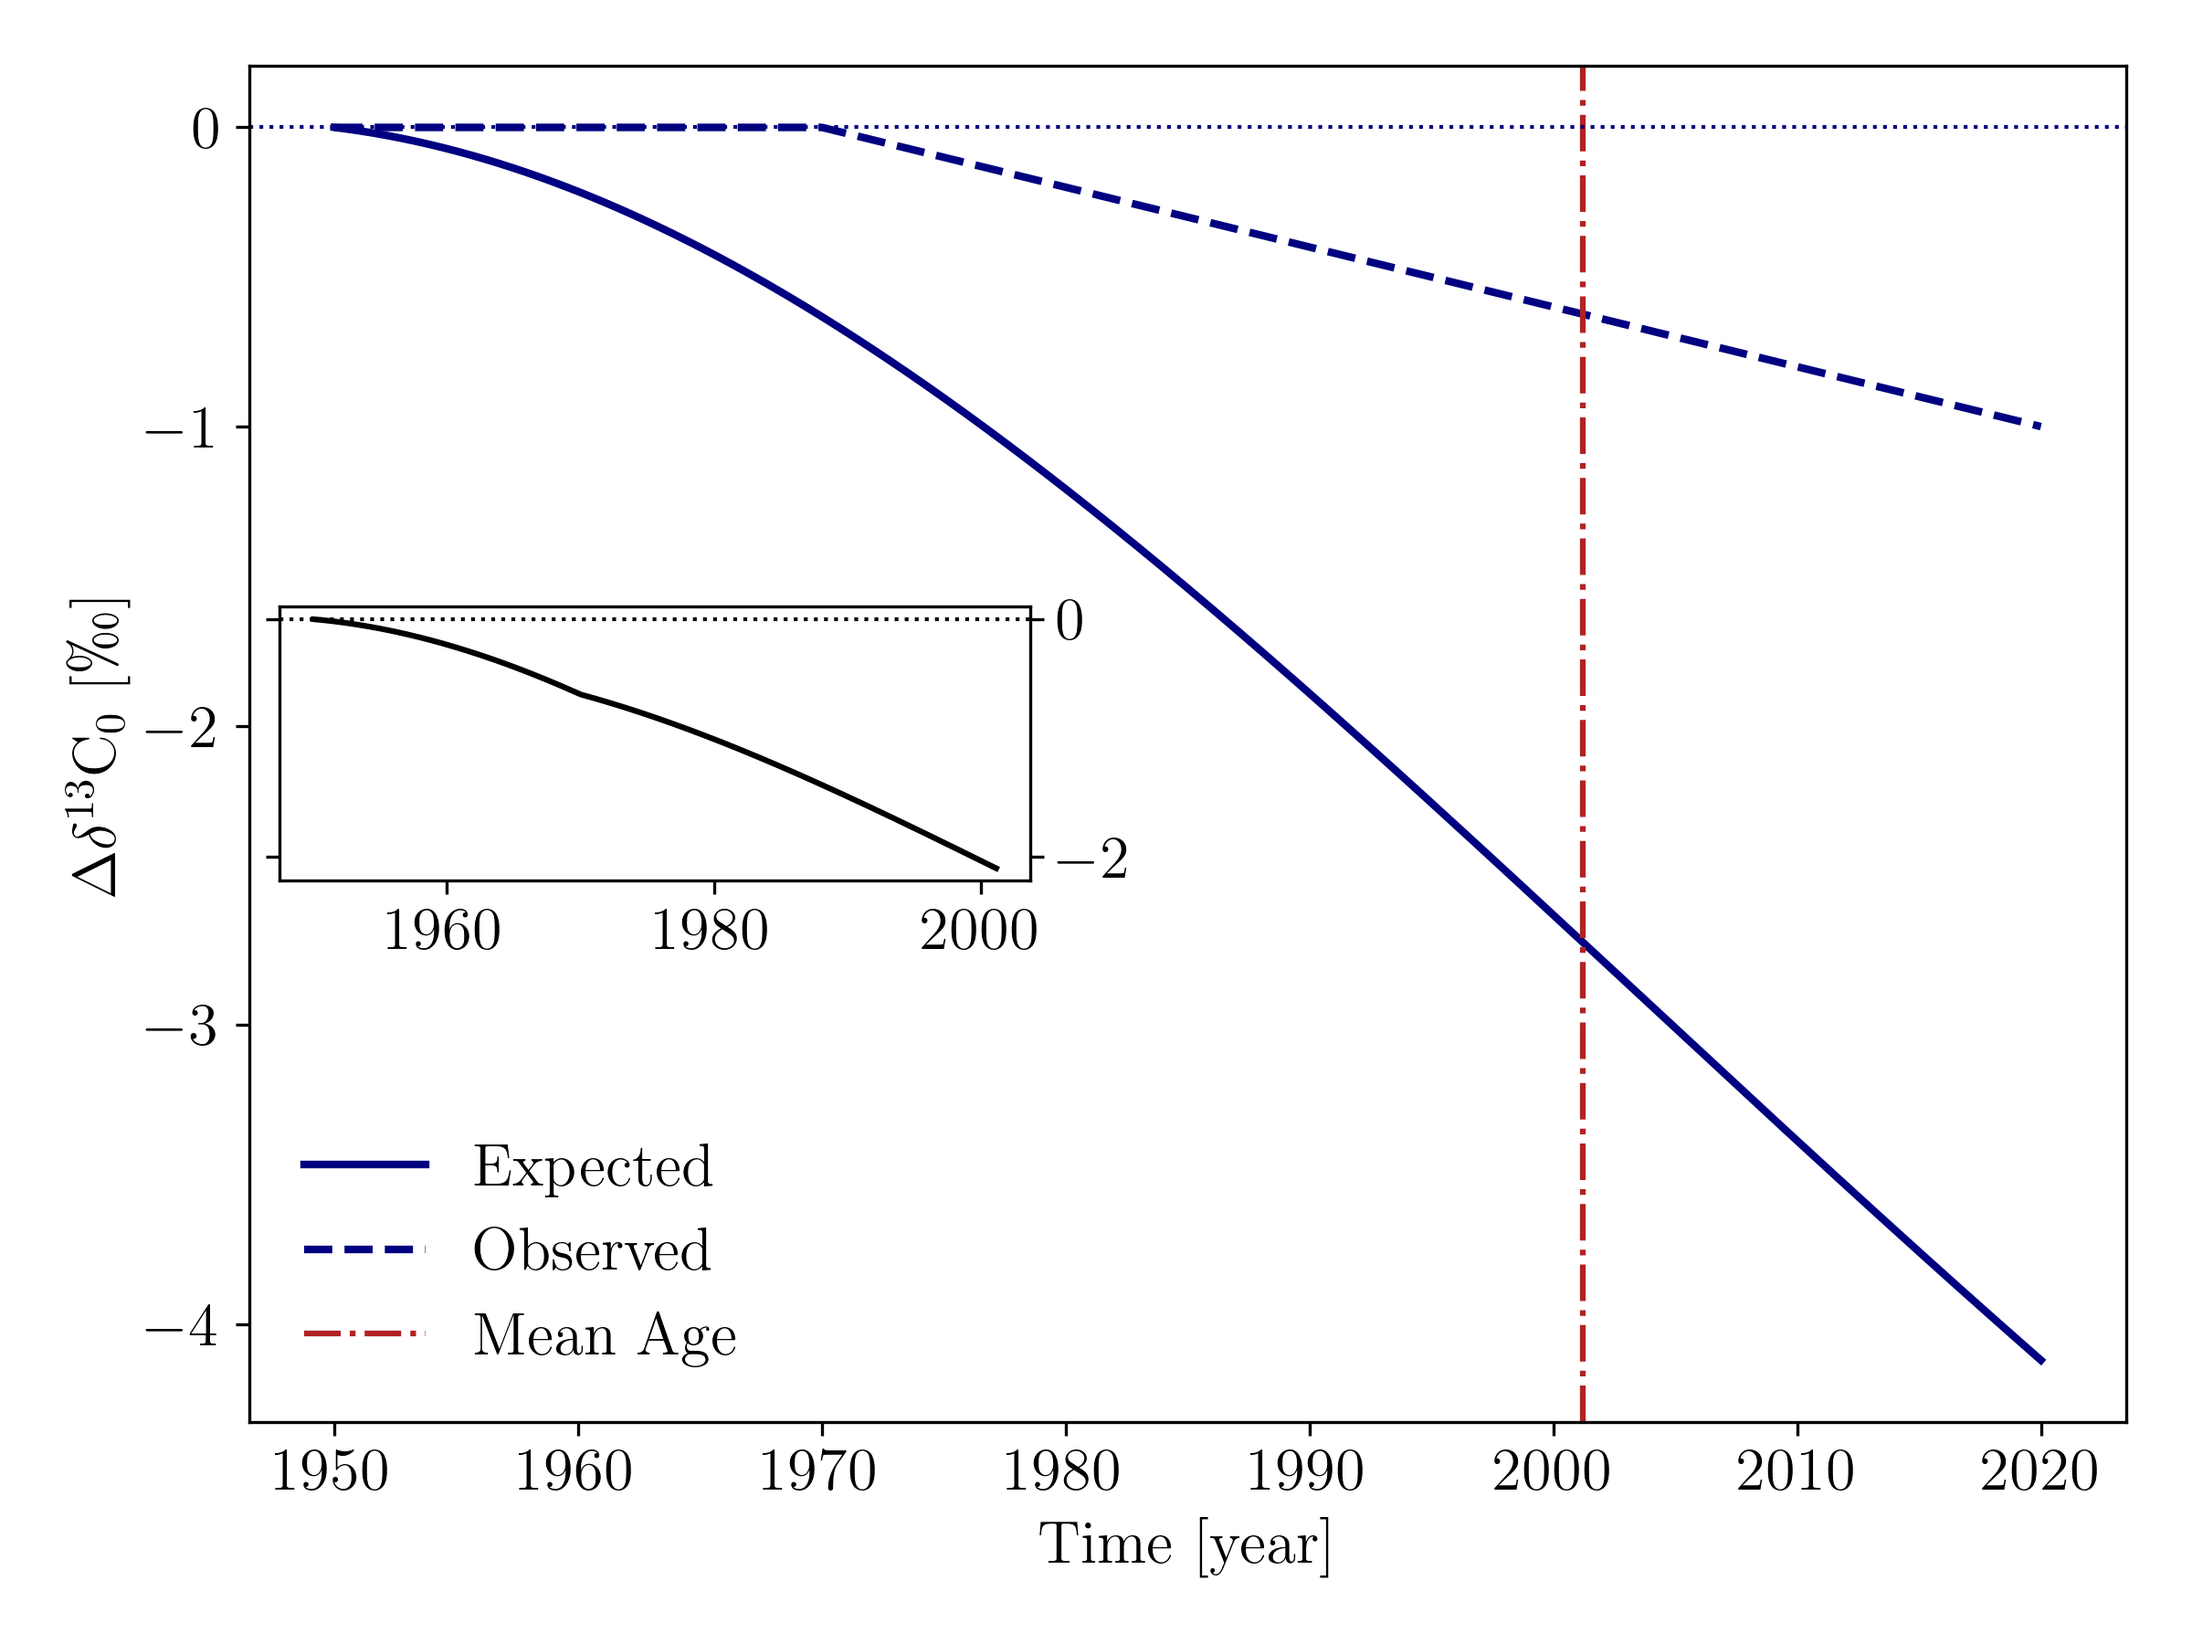
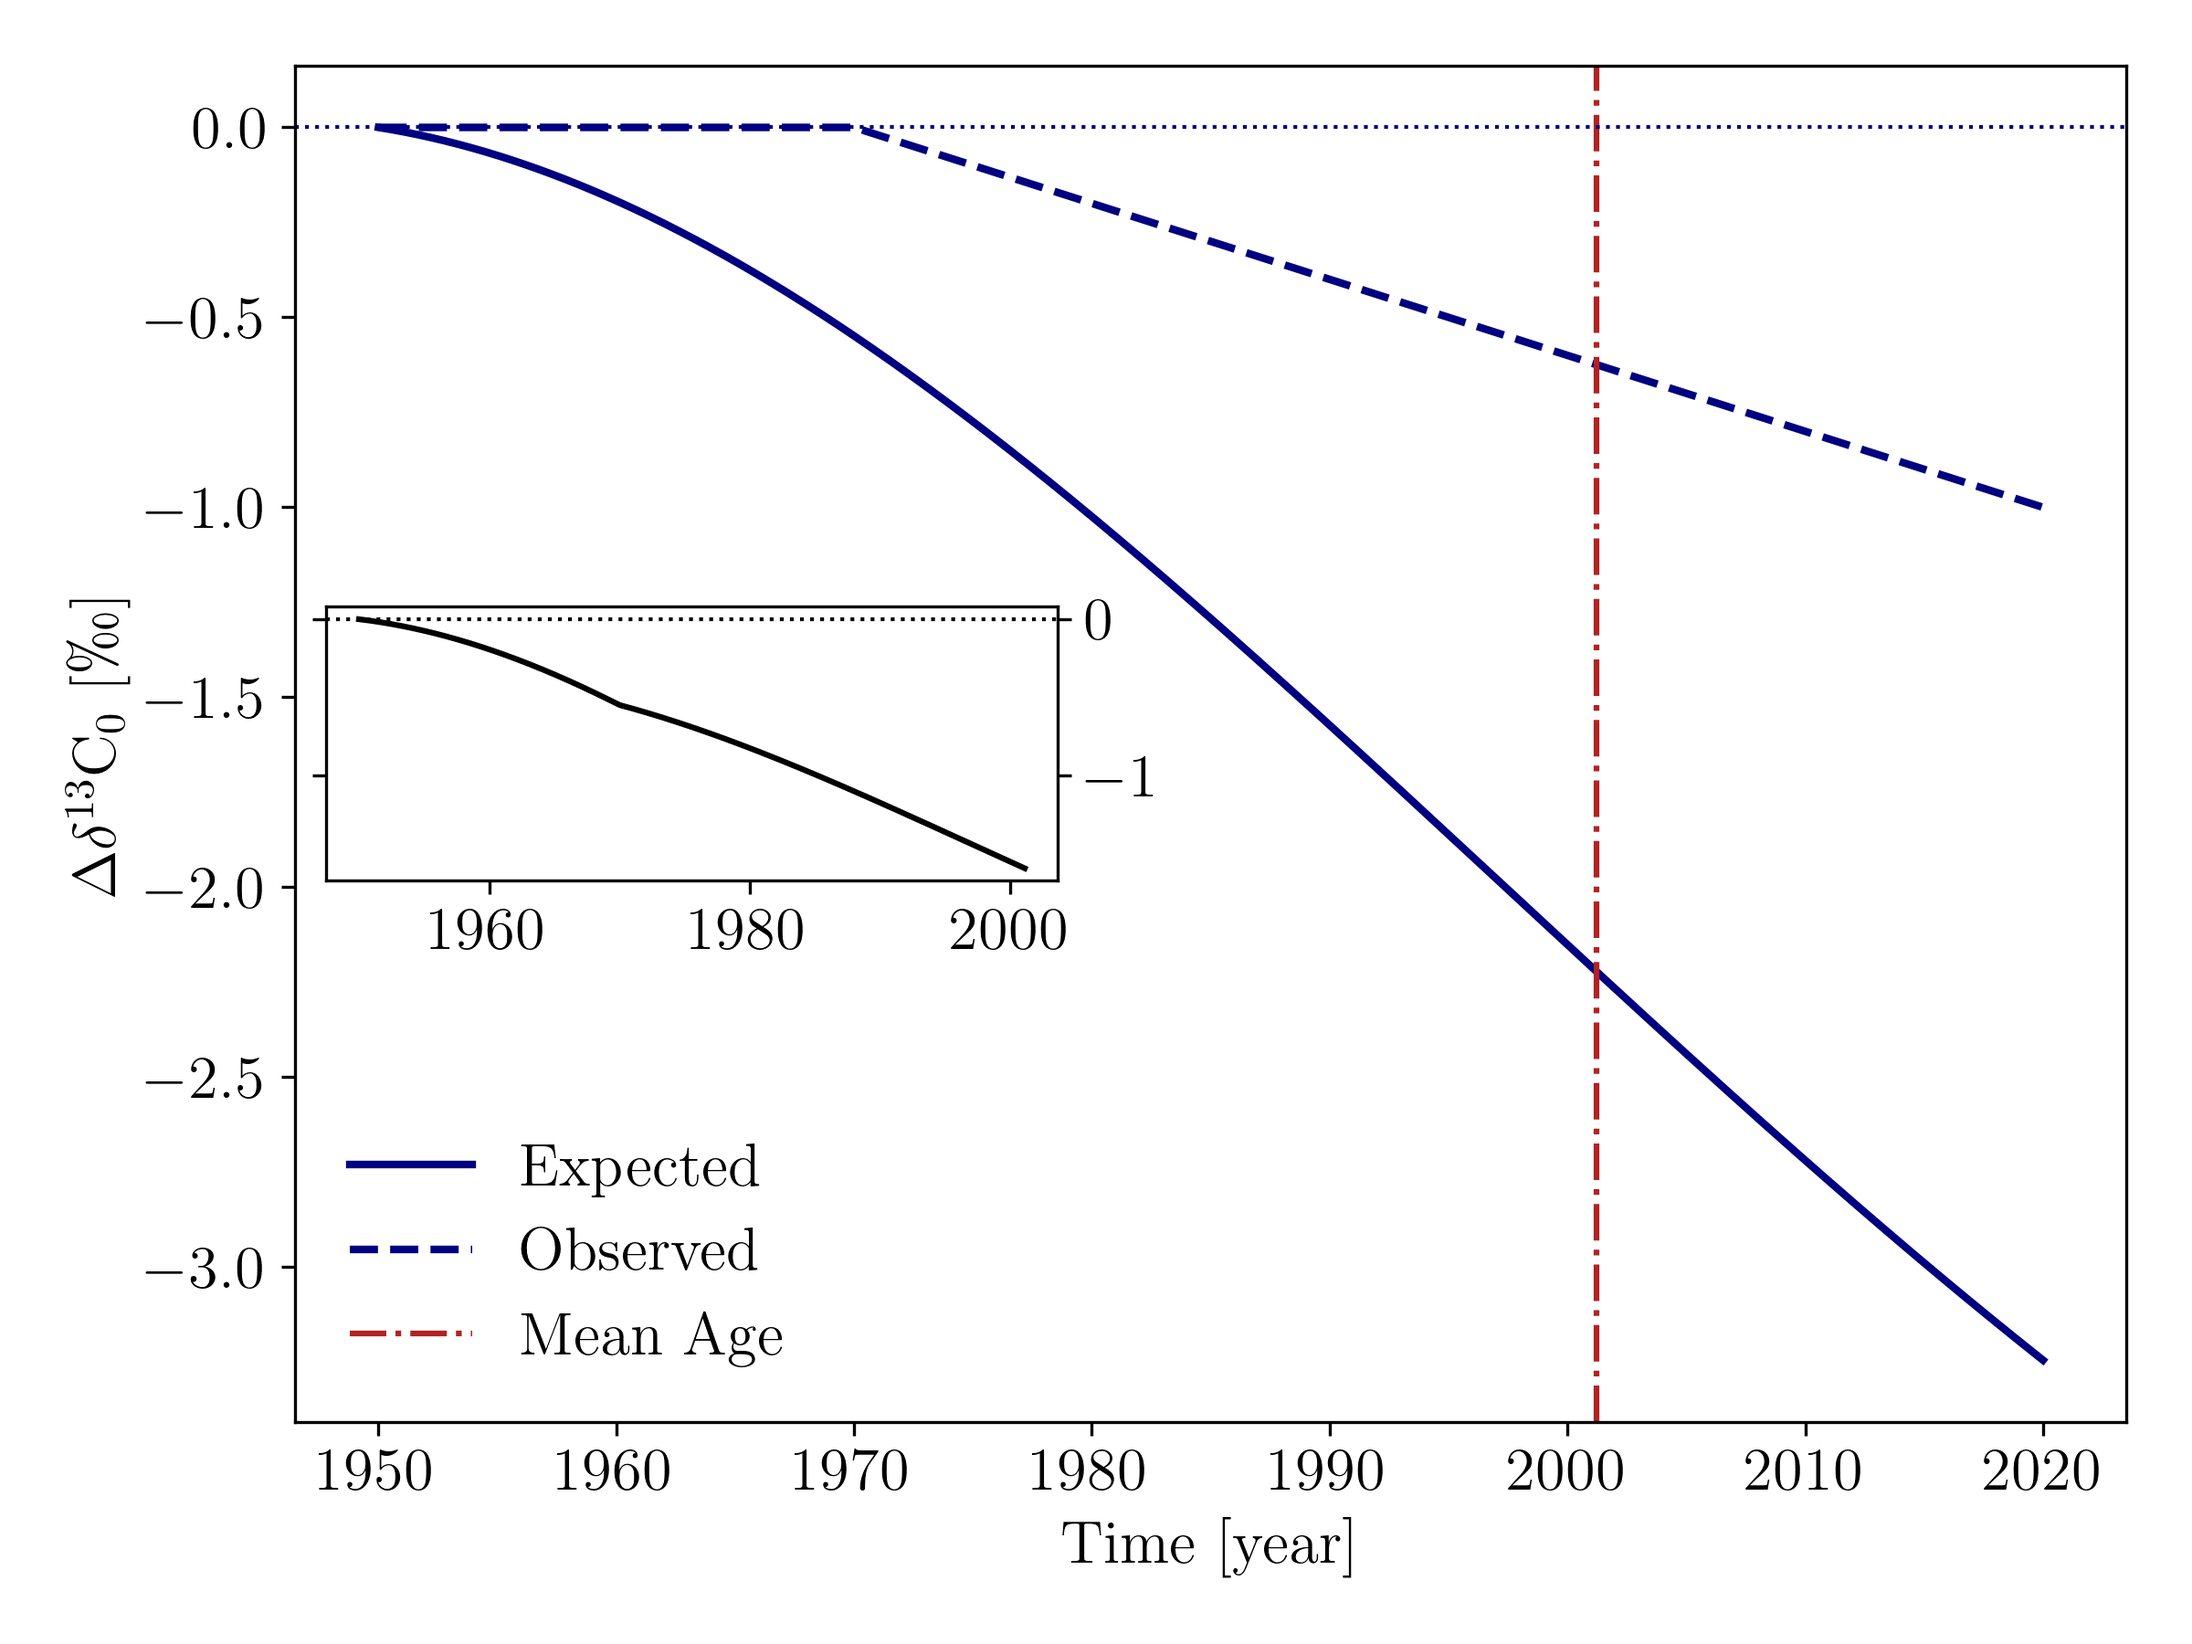
adding in submitted 12744 ps3

diff --git a/blog/course_notes/courses/12744/problem_sets/ps3/12744_ps3.html b/blog/course_notes/courses/12744/problem_sets/ps3/12744_ps3.html
@@ -78,7 +78,7 @@ which gives:
 \begin{equation}
 C_a(t)\delta^{13}C_a(t) = C_a(t_0)\delta^{13}C_a(t_0) + \widehat{F}(t)\delta^{13}C_{p},
 \end{equation}
-where $\delta^{13}C_p$ is the constant isotope value for anthropogenic emissions and we assume $t_0=1950$ is at pre-industrial levels.
+where $\delta^{13}C_p$ is the constant isotope value for anthropogenic emissions and we assume $t_0=1950$ is at pre-industrial levels, making $C_a(t_0)$ the pre-industrial value of carbon in the atmosphere.
 We present the solutions for the two different emission scenarios in the middle plot of Fig. 1 (solid and dashed).
 </p>
 <p>
@@ -110,7 +110,7 @@ We can clearly see that there is a large discrepency propogated through time bet
 This is due to the absence of either both the ocean and the biosphere (solid line) and just the biosphere (dashed line). This so called "Suess Effect" is greatly exaggerated in these scenarios given the lack of these resevoirs.
 </p>
 <p>
-Similar to $\delta^{13}C$, we can see from the bottom panel of Fig. 1, that $\Delta^{14}C$ is nearly a translated Heaviside function given the rapid rate of bomnb testing for a decade in the mid 20th century. 
+Similar to $\delta^{13}C$, we can see from the bottom panel of Fig. 1, that $\Delta^{14}C$ is nearly a translated Heaviside function given the rapid rate of bomb testing for a decade in the mid 20th century. 
 The long decay constant all makes it so that the decay has a negligible effect on the reduction of the isotope in the atmosphere. 
 Compared to the data, the dotted line in the bottom panel of Fig. 1, we see that the lack of either resevoir sink has a much larger effect than  $\delta^{13}C$, with a change nearly two orders of magnitude greater ($\mathcal{O}(10^0)$ vs. $\mathcal{O}(10^2)$), leading to the quasi-exponential change in the atmospheric resevoir. 
 </p>
@@ -123,7 +123,6 @@ Compared to the data, the dotted line in the bottom panel of Fig. 1, we see that
 		Fig. 2: Depth profile of bomb radiocarbon used to calculate the penetration depth recreated by visual inspection of the original plot from Bard <i>et al.</i> (1989).
 		The solid black line is the bomb radiocarbon at the time of measurement and the dashed line is the pre-industrial value at that depth.
 		For horizontal lines: the dashed line is the penetration depth in the year of measurment and the dot-dashed line is the penetration depth at the mean age.
-		The green line is a depth of 100 [m] used for later sensitivity tests.
 		The inset plot is the difference between the two measurements used in the calculating the penetration depth. 
 	</figcaption>
 </figure>
@@ -141,13 +140,14 @@ We define the center of mass for a variable $x$ with corresponding "mass" (or me
 
 Applying this formula to the emissions defined by $\widehat{F}$, we get that:
 \begin{equation}
-	\overline{\tau} = \int \text{d}t' \: \tilde{t}\cdot \widehat{F}(t') \bigg/ \int \text{d}t' \: \widehat{F}(t') \simeq 2001 = 51 \:\left[\text{y}\right]
+	\overline{\tau} = \int \text{d}t' \: \tilde{t}\cdot \widehat{F}(t') \bigg/ \int \text{d}t' \: \widehat{F}(t') \simeq 51 \:\left[\text{y}\right].
 \end{equation}
-We note that we could also find the time at which 50$\%$ of total emissions had been emitted using the quadratic formulate for a quadratic polynomial of the form:
+which is approximately 2001.
+We note that we could also find the time at which 50$\%$ of total emissions had been emitted using the quadratic formula for a polynomial of the form:
 \begin{equation}
 	\left(\frac{2(C_T - \Delta t)}{\Delta t} + r_0\right)\tilde{t}^2 + r_0\tilde{t} - (440 / 2) = 0,
 \end{equation}
-for which the positive part of the quadratic formula gives $\overline{\tau} \simeq  1998$ or $48$ [y], but for sake of consistency with later calculations, we use the center of mass calculation.
+for which the positive part of the quadratic formula gives $\overline{\tau} \simeq 48$ [y] (or approximately 1998), but for sake of consistency with later calculations, we use the center of mass calculation.
 This line is plotted as the vertical dot-dashed red line in the top panel of Fig. 1 and Fig. 3. 
 
 <h4>Mean Penetration Depth</h4>
@@ -157,7 +157,6 @@ We get, for $\Delta\delta^{13}C(z)$ the difference between the two observed prof
 \begin{equation}
 	\overline{Z} = \int \text{d}z' \: z'\cdot \Delta\delta^{13}C(z') \bigg/ \int \text{d}z' \: \Delta\delta^{13}C(z') \simeq -231 \:\left[\text{m}\right].
 \end{equation}
-We will use this value in the rest of the problem and find that our calculations are <i>highly</i> sensitive to this calculation.
 We also note that this value is of course integrated over the time since the bomb testing ceased (in our model we assume that this is in 1965). 
 Therefore, we can define a rate:
 \begin{equation}
@@ -181,6 +180,7 @@ Next, we can apply this rate to find the penetration depth over the mean age of 
 		The dashed blue line is the observed (given) rate of change for $\delta^{13}C$. 
 		The dot-dashed red line is the mean age $\overline{\tau}$. 
 		The inset plot is the difference between the expected and observed given the emissions scenario of interest.
+		Note the kink at 1970. This is due to the removable discontinuity at this time given the time bounds for the observational equation given in the problem.
 	</figcaption>
 </figure>
 
@@ -188,19 +188,41 @@ Next, we can apply this rate to find the penetration depth over the mean age of 
 First, we can calculate the amount of DIC, which we call $C_d$, that can be exchange with the atmosphere. 
 To do this, we calculate the percentage of the total ocean that is covered by the penetration depth, as follows:
  \begin{equation}
- r_p = \frac{\text{SA}}{\text{V}}\langle\overline{Z}\rangle \simeq 0.16,
+ r_{p} = \frac{\text{SA}}{\text{V}}\langle\overline{Z}\rangle \simeq 0.16,
 \end{equation}
-where we have used values of SA $= 360 \times 10^{12}$ and V $= 1.29 \times  10 ^{18}$ from Sarmiento and Gruber (2006).
-Now, we imagine a model in which there is some flux of anthropogenic emissions into the ocean, which can be described by:
-\begin{equation}
-	\frac{\textrm{d}}{\textrm{d}t}\left[\left(C_o \circ \delta^{13}C_{o}\right)(t)\right] = G(t)\delta^{13}C_p,
+where we have used values of SA $= 360 \times 10^{12}$ $[\text{m}^{2}]$ and V $= 1.29 \times  10 ^{18}$ [m$^{3}$] from Sarmiento and Gruber (2006).
+However, we note that this assumes that the DIC is homogeneous in the ocean. 
+As given in the problem, we know that this is not the case, but rather that the $\delta^{13}C(z)$ decreases with a given power law relationship to 0 [‰].
+Backed by observational data (e.g., Schmitter and Lund 2015, Fig. 4) we know that conversely, $C_d(z)$, and here we assume therefore the amount of available DIC to exchange with the atmosphere, increases asymptotically with depth, which we assume is of the form:
+ \begin{equation}
+	f_d(z) = 1 - \exp\left[-z / L_z\right],
 \end{equation}
+where we define $L_z$ as the $e$-folding depth.
+We note that this is simply a fraction relating what we define as the available DIC from a non-homgeneous assumption to that of the homogeneous assumption.
+After tests with observational data (the green marker in Fig. 4), we conclude that $L_z = 1000$ [m].
+Therefore, we conclude that amount of aviable DIC is given by:
+ \begin{equation}
+ C_d = r_pf_d(\langle\overline{Z}\rangle)\text{DIC}_T \simeq 2.579 \times 10^{3} \:\left[\text{Gt C}\right],
+\end{equation}
+where DIC$_T$ is the total resevoir of DIC in the ocean (38,000 [Gt C]). 
+</p>
+<p>
+Now, we imagine a model in which there is some flux of anthropogenic emissions into the ocean, which can be described by the set of equations:
+\begin{align}
+	\frac{\textrm{d}}{\textrm{d}t}\left[\left(C_a \circ \delta^{13}C_{a}\right)(t)\right] &= \left(F(t) - G(t)\right)\delta^{13}C_a, \\
+	\frac{\textrm{d}}{\textrm{d}t}\left[\left(C_o \circ \delta^{13}C_{o}\right)(t)\right] &= G(t)\delta^{13}C_p,
+\end{align}
 where $G(t)$ is a function representing the transfer of anthropogenic carbon into the ocean, which is unknown. 
-Integrating this model with respect to time gives:
+Integrating the equation for the ocean with respect to time gives:
 \begin{equation}
-	\delta^{13}C(t) = \frac{C_d}{C_d + G(t)\Delta t}\delta^{13}C + \frac{G(t)\Delta t}{C_d + G(t)\Delta t}\delta^{13}C_p,
+	\delta^{13}C_o(t) = \frac{C_d}{C_d + G(t)\Delta t}\delta^{13}C_d + \frac{G(t)\Delta t}{C_d + G(t)\Delta t}\delta^{13}C_p,
 \end{equation}
 where we note that $G(t)\Delta t$ is the total amount (or change) of carbon that goes into the ocean from the atmosphere.
+We then integrate the equation for the atmosphere similarly and solve for $G(t)\Delta t$ to find:
+\begin{equation}
+G(t)\Delta t = \left( C_a(t)\delta^{13}C_a(t) - C_a(t_0)\delta^{13}C_a(t_0) - \widehat{F}(t | C_T = 269)\delta^{13}C_p \right) \frac{1}{\delta^{13}C_p},
+\end{equation}
+where we have corrected the primitive of the emissions rate to be scenario of interest here (the atmosphere and the ocean are the resevoirs, of which the ocean takes all carbon the atmosphere is observed to not to given the emissions scenario). 
 As we are interested in the <i>change</i> of $\delta^{13}C_d$, which we denote $\Delta_{t_0}\delta^{13}C$ where the $\Delta_{t_0}$ operator means the difference in the value at time $t$ and $t_0$, we can rearrange this equation to get:
 \begin{equation}
 	\Delta_{t_0}\delta^{13}C_d = \left(\Delta_{t_0}\delta^{13}C_o - \frac{G(t)\Delta t}{C_d + G(t)\Delta t}\delta^{13}C_p \right) \frac{C_d + G(t)\Delta t}{C_d},
@@ -218,22 +240,44 @@ Specifically, we can compare these by calculating the rate over $\overline{\tau}
 	\text{Observed} &: -1.2 \times 10^{-2} \: \left[‰ \: y^{-1}\right]
 \end{align}
 Clearly, there is a discrepency between the observation and the mass balance in the model that we have been considering up to this point.
-
+We see that there is more $\delta^{13}C$ in the ocean system than observed by a factor of $\sim 4 \text{ to }5.$ That is large!
 </p>
 
-<h3>Problem 4 & 5</h3>
+<h3>Problem 4 and 5</h3>
 
 <figure>
 	<img src="images/prob4_5.png" style="width:50%">
 	<figcaption> 
 		Fig. 4: The blue is the change in biospheric $C$ to account for the observed $\delta^{13}C$ change in the ocean of interest in this problem.
 		The red is the corresponding change in the biosopheric $\delta^{13}C$ given this accumulation of $C$ from the atmopshere.
-		There are two scenarios presented here. The first is for a penetration depth calculated in Problem 2 which are the solid lines. 
-		The second is for a hypothetical scenario with a pentration depth of -100 [m], such that the change in biospheric carbon is equal to observational data from Rockström <i>et al. </i> (2021, the green marker), which are the dashed lines.
 	</figcaption>
 </figure>
 
-We now address this contradiction between observation and mass balance.
+<p>
+We now address this contradiction between observation and mass balance. 
+To do this, we first imagine an ocean box model in which some portion of the anthropogenic carbon is partitioned into the biosphere, leading to a model of the form:
+\begin{equation}
+	\frac{\textrm{d}}{\textrm{d}t}\left[\left(C_o \circ \delta^{13}C_{o}\right)(t)\right] = \left(G(t) - H(t)\right)\delta^{13}C_p,
+\end{equation}
+where $H(t)$ is said additional function we are now considering.
+We can solve this as we have previosly and solve for $H(t)\Delta t$ to get to an equation of the form: 
+\begin{equation}
+	H(t)\Delta t = \left(C_d\Delta_{t_0}\delta^{13}C_d + G(t)\Delta t \Delta_{t_0}\delta^{13}C_p - \left( C_d + G(t)\Delta t\right)\Delta\delta^{13}C_o\right) \frac{1}{\delta^{13}C_p - \Delta_{t_0}\delta^{13}C_o},
+\end{equation}
+where we have updated $\Delta_{t_0}\delta^{13}C_d$ from the solution in Problem 3 (the solid line in Fig. 3) to the observed (the dashed line in Fig. 3). 
+We plot the solution to this equation in Fig. 4 in the blue solid line. 
+</p>
+<p>
+Lastly, to calculate the change in the biospheric $\delta^{13}C$, we consider a model in which there is a function input of anthropogenic carbon into the biosphere:
+\begin{equation}
+	\frac{\textrm{d}}{\textrm{d}t}\left[\left(C_b \circ \delta^{13}C_{b}\right)(t)\right] = H(t)\delta^{13}C_p,
+\end{equation}
+which, integrating this model with respect to time as before and taking the operator $\Delta_{t_0}$, gives:
+\begin{equation}
+	\Delta_{t_0}\delta^{13}C_b(t) = \frac{C_b}{C_b + H(t)\Delta t}\delta^{13}C_b + \frac{H(t)\Delta t}{C_d + H(t)\Delta t}\delta^{13}C_p - \delta^{13}C_b(t_0)
+\end{equation}
+We plot this solution as the solid red line in Fig. 4. 
+</p>
 
 <hr style="width: 60em;">
 
